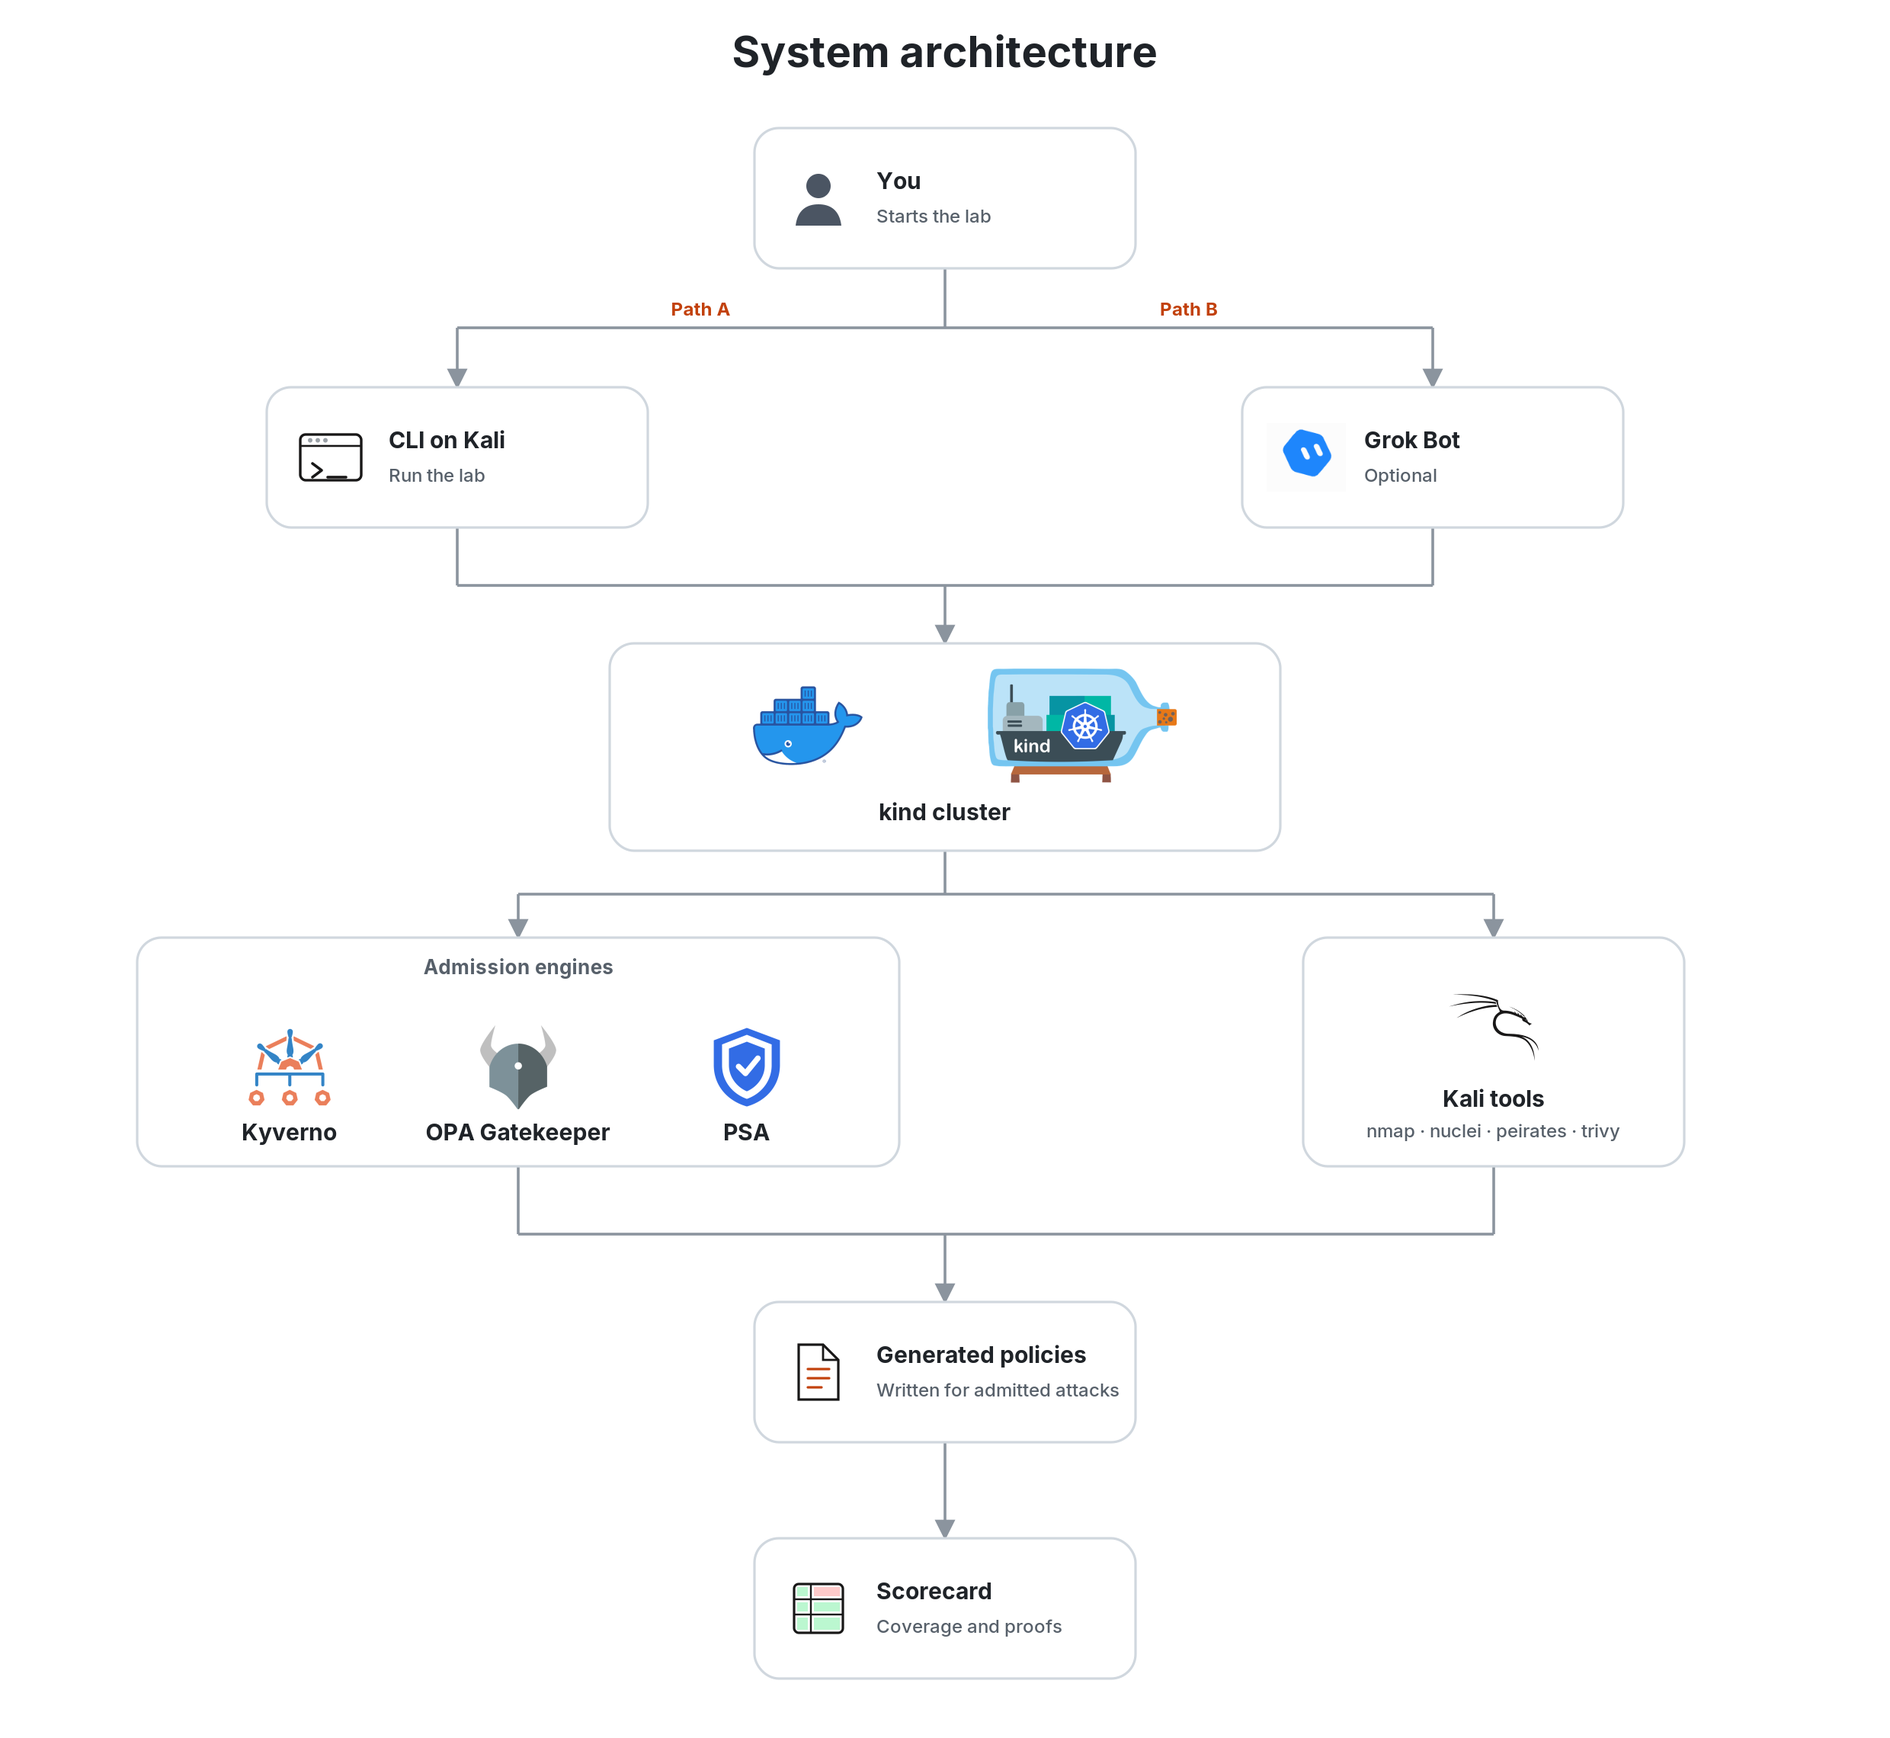
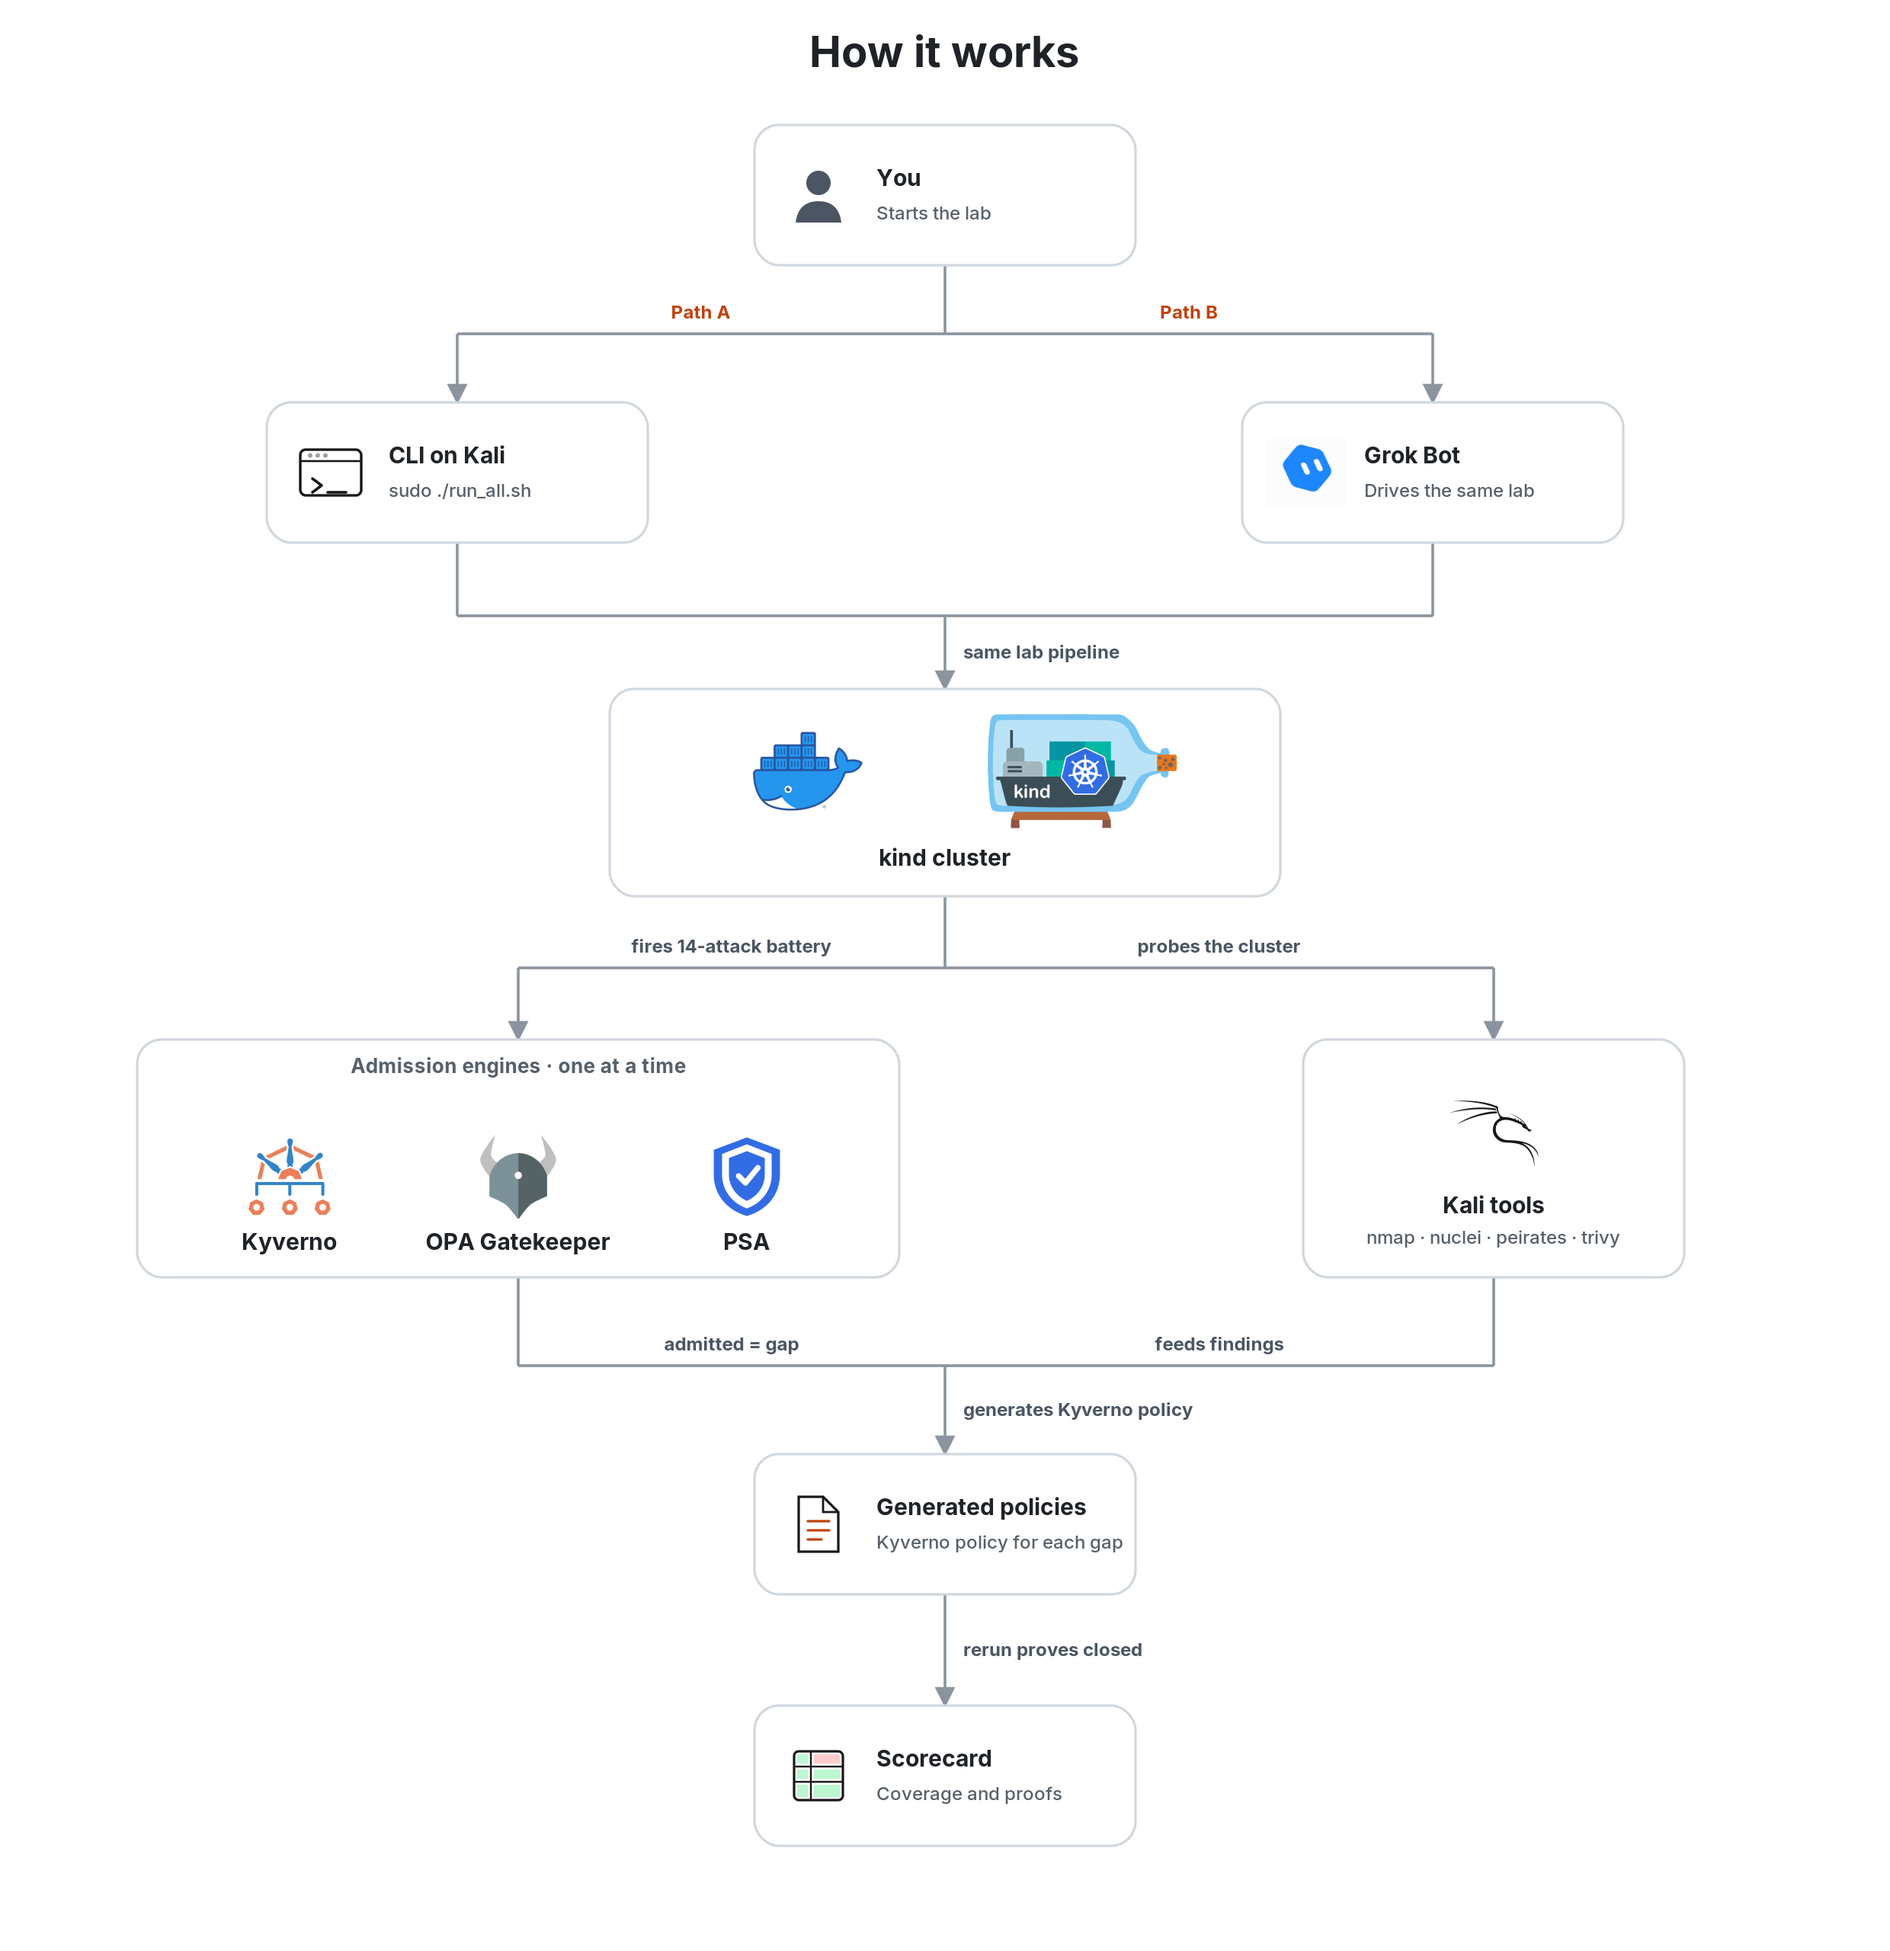
Clarify How It Works with diagram labels and shorter section names
Rename the architecture section to How It Works, retitle Setup and
How to Use, add short node and arrow labels so the figure reads on
its own, and give each step under the diagram one or two sentences.

diff --git a/README.md b/README.md
@@ -21,18 +21,18 @@ This is a policy-gate test, not a runtime detect-and-remediate tool. Use it only
 - **Scorecard and matrix.** Side-by-side coverage, closed-loop proofs, and HTML/JSON reports under `report/`.
 - **Lab-only by design.** Targets a disposable `kind` cluster named `admission-lab`. Not for production, shared, or third-party clusters.
 
-## System Architecture
+## How It Works
 
 <p align="center">
-  <img src="assets/architecture.png" alt="System architecture of the K8s Admission Attack Lab" width="800">
+  <img src="assets/architecture.png" alt="How the K8s Admission Attack Lab works" width="800">
 </p>
 
-1. **You** start the lab from either path below. Both drive the same pipeline.
-2. **Path A — CLI on Kali.** On a disposable Kali host (or any machine with Docker and kind), clone the repo and run `sudo ./run_all.sh`. The script installs missing Kali tools, stands up the cluster if needed, and runs the loop.
-3. **Path B — Grok Bot.** Add the bot from the [public template](https://x.ai/bot/jOM5_aaw8G0b9kSWHoYDR) and ask it to drive the same lab on Kali.
-4. Both paths use a disposable **kind** cluster (`admission-lab`) running on **Docker**.
-5. **Admission engines** — Kyverno, OPA Gatekeeper, and built-in PSA — each see the same 14-manifest battery, one at a time. **Kali tools** (nmap, nuclei, peirates, trivy) probe the live cluster.
-6. Admitted attacks become **generated policies**. The same attack is re-run until the webhook blocks it. The **scorecard** records coverage and closed-loop proofs.
+1. **You** start from Path A or Path B. Both paths run the same lab and write the same scorecard.
+2. **Path A — CLI on Kali.** On a disposable Kali host (or any machine with Docker and kind), clone the repo and run `sudo ./run_all.sh`. The script installs missing Kali tools, creates the cluster if needed, and drives the full loop.
+3. **Path B — Grok Bot.** Add the bot from the [public template](https://x.ai/bot/jOM5_aaw8G0b9kSWHoYDR) and start a chat. It walks through first-run setup, then drives that same CLI path on Kali.
+4. **kind cluster.** Both paths land on a disposable `admission-lab` cluster running on Docker. That is the only cluster this lab is meant to touch.
+5. **Admission engines and Kali tools.** The same 14-manifest battery is fired at Kyverno, OPA Gatekeeper, and built-in PSA, one engine at a time. Kali tools (nmap, nuclei, peirates, and trivy) probe the live cluster, and mappable findings can enter the same policy loop.
+6. **Generated policies and scorecard.** Whatever a stock gate admits is a gap. The lab writes a Kyverno ValidatingPolicy for it, applies the policy, and re-runs the same attack until the webhook blocks it (`[PROVED CLOSED]`). The scorecard records coverage, the matrix, and those proofs.
 
 ## Tech Stack
 
@@ -45,7 +45,7 @@ This is a policy-gate test, not a runtime detect-and-remediate tool. Use it only
 | Interface | CLI (`./run_all.sh`) and [Grok Bot](https://x.ai/bot/jOM5_aaw8G0b9kSWHoYDR) |
 | Reports | Scorecard HTML/JSON, text matrix, sanitized samples under `report/` |
 
-## Setup Instructions
+## Setup
 
 There are two ways in, and they run the same lab. Use a disposable host you own — Kali Rolling, or any machine with Docker — and about 4 GiB of RAM so one admission engine can run at a time. Do not point this at a production, shared, or third-party cluster.
 
@@ -101,7 +101,7 @@ python3 scripts/run_kali_stage.py  # nmap, nuclei, peirates, trivy, loop
 
 The on-repo recipe is [`template/k8admission-template.json`](template/k8admission-template.json), with [`skills/k8admission-getting-started/SKILL.md`](skills/k8admission-getting-started/SKILL.md) and [`skills/k8admission-lab/SKILL.md`](skills/k8admission-lab/SKILL.md), if you ever need to rebuild the bot by hand.
 
-## Usage Guide
+## How to Use
 
 ### Run the full lab
 
